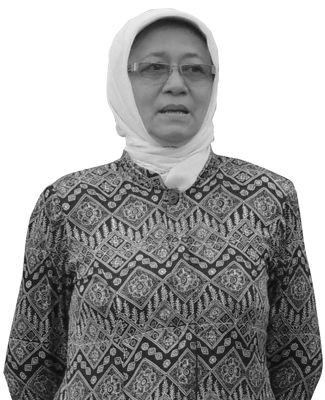
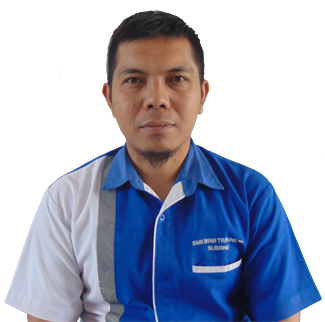
changes on main page

diff --git a/src/components/pages/main/index.js b/src/components/pages/main/index.js
@@ -1,7 +1,7 @@
 import React, { useEffect } from 'react'
 import clsx from 'clsx'
-import { Grid, Typography, Container, Divider, Card, CardContent, Box } from '@material-ui/core'
-import { makeStyles } from '@material-ui/core/styles'
+import { Grid, Typography, Container, Divider, Card, CardContent, Box, useMediaQuery } from '@material-ui/core'
+import { useTheme, makeStyles } from '@material-ui/core/styles'
 import HeadMaster from '../../../assets/images/kepalasekolah.png'
 import aboutBackground from '../../../assets/images/tefa.jpg'
 import { CustomButton } from '../../styling';
@@ -10,84 +10,105 @@ import { Link } from 'react-router-dom';
 import WOW from 'wowjs';
 
 import backgroundHeader from '../../../assets/images/backgroundHeader.jpg'
+import hex2Rgba from '../../nano/hex2rgba'
+import { useGlobal } from 'reactn'
 
-const useStyles = makeStyles((theme) => ({
-	title: {
-		margin: theme.spacing(15, 'auto')
-	},
-	aboutBG:{
-		backgroundImage:`url(${aboutBackground})`,
-		backgroundRepeat:'no-repeat',
-		backgroundAttachment:'fixed',
-		backgroundPosition:'center',
-		backgroundSize:'cover',
-		minHeight:'500px',
-		height:'100vh',
-		maxHeight:'700px',
-		alignItems:'center'
-	},
-	titleText:{
-		flexGrow: 1,
-		fontFamily: 'Inter',
-		fontWeight: 'Bold'
-	},
-	mainHeader:{
-		background:`linear-gradient(180deg, transparent 0%, ${theme.palette.background.default} 75%, ${theme.palette.background.default} 100%)`
-	},
-	boxContent:{
-		margin: theme.spacing(15, 0, 15, 0)
-	},
-	
-	boxAffiliation:{
-		padding: theme.spacing(15, 0, 15, 0),
-		backgroundColor:'white',
-		color:'black',
-		boxShadow: '0px 0px 35px 1px rgba(122,122,122,0.46)'
-	},
-	boxMaps:{
-		padding: theme.spacing(15, 0, 15, 0),
-	},
-	boxIntroImg:{
-		backgroundImage:`url(${HeadMaster})`,
-		backgroundPosition:'top right',
-		backgroundSize:'cover',
-		backgroundRepeat:'no-repeat',
-		height:'100%',
-		opacity:.9
-	},
-	boxIntroDialog:{
-		padding:theme.spacing(5)
-	},
-	fullWidthContainer: {
-		maxWidth: '100vw',
-	},
-	backgroundTheme: {
-		backgroundColor:theme.palette.background.default
-	},
-	aboutReadMore: {
-		marginTop: theme.spacing(4)
-	},
-	mt4:{
-		marginTop:theme.spacing(4)
-	},
-	VisbyBold:{
-		fontFamily:'VisbyBold'
-	}
-}));
+const useStyles = makeStyles((theme) => {
+	var bg = theme.palette.background.default
+
+	return ({
+		title: {
+			margin: theme.spacing(15, 'auto')
+		},
+		aboutBG:{
+			backgroundImage:`linear-gradient(${hex2Rgba(bg,.7)} 0%, ${hex2Rgba(bg,.7)} 100%),url(${aboutBackground})`,
+			backgroundRepeat:'no-repeat',
+			backgroundAttachment:'fixed',
+			backgroundPosition:'center',
+			backgroundSize:'cover',
+			minHeight:'500px',
+			height:'100vh',
+			maxHeight:'700px',
+			alignItems:'center'
+		},
+		titleText:{
+			flexGrow: 1,
+			fontFamily: 'Inter',
+			fontWeight: 'Bold'
+		},
+		mainHeader:{
+			background:`linear-gradient(180deg, transparent 0%, ${theme.palette.background.default} 75%, ${theme.palette.background.default} 100%)`
+		},
+		boxContent:{
+			margin: theme.spacing(15, 0, 15, 0)
+		},
+		
+		boxAffiliation:{
+			padding: theme.spacing(15, 0, 15, 0),
+			backgroundColor:'white',
+			color:'black',
+			boxShadow: '0px 0px 35px 1px rgba(122,122,122,0.46)'
+		},
+		boxMaps:{
+			padding: theme.spacing(15, 0, 15, 0),
+		},
+		boxIntro:{
+			backgroundPosition:'bottom left',
+			backgroundSize:'contain',
+			backgroundRepeat:'no-repeat',
+			height:'100%',
+			opacity:.9
+		},
+		boxIntroImg:{
+			backgroundImage:`url(${HeadMaster})`,
+		},
+		boxIntroNoImg:{
+			backgroundImage:'none'
+		},
+		boxIntroDialog:{
+			padding:theme.spacing(5)
+		},
+		fullWidthContainer: {
+			maxWidth: '100vw',
+		},
+		backgroundTheme: {
+			backgroundColor:theme.palette.background.default
+		},
+		aboutReadMore: {
+			fontFamily:'Inter',
+			marginTop: theme.spacing(4)
+		},
+		mt4:{
+			marginTop:theme.spacing(4)
+		},
+		VisbyBold:{
+			fontFamily:'VisbyBold'
+		}
+	})
+});
 
 const Main = () => {
 
+	const hideAboutBoxImg = useMediaQuery('(min-width:960px)');
+	const theme = useTheme();
+	const [darkMode, setDarkMode] = useGlobal('darkMode')
+
 	useEffect(() => {
-		document.title = 'Beranda';
 		const mainContentDOM = document.querySelector('#body');
+		console.log('triggered')
 		
 		if (mainContentDOM !== null) {
 			let { style } = mainContentDOM;
-			style.backgroundImage = `url(${backgroundHeader})`
-			style.backgroundPosition = 'center center'
+			style.backgroundImage = `linear-gradient(180deg, ${theme.palette.background.default} 0%, rgba(209,209,209,0) 100%),url(${backgroundHeader})`
+			style.backgroundPosition = 'top center'
+			style.backgroundAttachment = 'fixed'
 			style.backgroundRepeat = 'no-repeat'
 			style.backgroundSize = 'cover'
 		}
+	}, [darkMode])
+
+	useEffect(() => {
+		document.title = 'Beranda';
 
 		return new WOW.WOW({
 			animateClass:'animate__animated',
@@ -100,26 +121,26 @@ const Main = () => {
 
 	const Intro = () => {
 		return(
-			<Grid container className="wow animate__fadeIn" data-wow-offset="350">
-				<Grid item xs={12} md={4} lg={4}>
-					<Box display={{ xs: 'none', sm: 'none', md: 'block' }} className={classes.boxIntroImg}>
+			<Grid container className={clsx("wow animate__fadeIn",classes.boxIntro, (hideAboutBoxImg ? classes.boxIntroImg : ''))} data-wow-offset="550">
+				<Grid item xs={12} md={5} lg={4}>
+					<Box display={{ xs: 'none', sm: 'none', md: 'block' }}>
 						
 					</Box>
 				</Grid>
-				<Grid item xs={12}  md={8} lg={8} className={classes.boxIntroDialog}>
+				<Grid item xs={12}  md={7} lg={8} className={classes.boxIntroDialog}>
 					<Typography align="center" variant="h4" className={classes.VisbyBold}>
 						Sambutan Kepala Sekolah
 					</Typography>
 					<Divider style={{marginBottom:30,marginTop:10}}/>
-					<Typography align="center" style={{fontFamily:'InterNormal'}}>
+					<Typography align="center" style={{fontFamily:'Visby'}}>
 						Assalamualaikum Wr.Wb<br/>
-						Selamat datang di Website kami Sekolah Menengah Kejuruan Negeri 13 Bandung. Media ini saya tujukan untuk seluruh unsur pimpinan, guru, karyawan dan siswa serta masyarakat guna dapat mengakses seluruh informasi tentang segala profil, kegiatan serta fasilitas sekolah kami.Saya selaku pimpinan mengucapkan terima kasih kepada Tim Manajemen dan Tim IT yang telah berusaha untuk dapat lebih memperkenalkan segala perihal yang dimiliki oleh sekolah. Saya berharap Website ini dapat dijadikan sarana interaksi yang positif baik antar warga sekolah maupun masyarakat pada umumnya sehingga informasi dapat tersampaikan dengan baik. Semoga Allah SWT memberikan kekuatan bagi kita semua untuk mencerdaskan anak-anak bangsa.Wassalamualikum Wr.Wb<br/><br/>
+						Selamat datang di Sekolah Menengah Kejuruan(SMK) Bina Taruna Jalancagak. Media ini saya tujukan untuk seluruh unsur pimpinan, guru, karyawan dan siswa serta masyarakat guna dapat mengakses seluruh informasi tentang segala profil, kegiatan serta fasilitas sekolah kami.<br/>Saya selaku pimpinan mengucapkan terima kasih kepada Tim Manajemen dan Tim IT yang telah berusaha untuk dapat lebih memperkenalkan segala perihal yang dimiliki oleh sekolah.<br/>Saya berharap situs ini dapat dijadikan sarana interaksi yang positif baik antar warga sekolah maupun masyarakat pada umumnya sehingga informasi dapat tersampaikan dengan baik.<br/>Semoga Allah SWT memberikan kekuatan bagi kita semua untuk mencerdaskan anak-anak bangsa.<br/>Wassalamualikum Wr.Wb<br/><br/>
 					</Typography>
 					<Typography align="center" variant="subtitle1" style={{fontWeight:'bold'}}>
 						Kepala Sekolah
 					</Typography>
 					<Typography align="center" variant="subtitle1">
-						Dra. Hj. Neneng Tresnawangsih, MM.
+						Dedi Rohimat, ST.
 					</Typography>
 				</Grid>
 			</Grid>
@@ -130,7 +151,7 @@ const Main = () => {
 		return(
 			<Grid container className="wow animate__fadeInUp" data-wow-offset="250">
 				<Grid item xs={12}>
-					<Container maxWidth="lg" style={{color:'white'}}>
+					<Container maxWidth="lg">
 						<Typography variant="h4" align="center" style={{marginBottom:10}}>
 							Tentang Sekolah
 						</Typography>

diff --git a/src/components/nano/mainNavbar.js b/src/components/nano/mainNavbar.js
@@ -15,6 +15,9 @@ const useStyles = makeStyles((theme) => ({
         boxShadow:'none',
         transition: 'all .3s ease-in-out!important'
     },
+    subNavbar:{
+        borderBottom:'3px solid #5587fe'
+    },
 	title: {
 	  	flexGrow: 1,
     },
@@ -159,7 +162,7 @@ const MainNavbar = (props) => {
             {MenuDrawer("top")}
         </Drawer>
         <Box display={{ xs: 'none', sm: 'none', md: 'block' }} >
-            <AppBar position="static" className={classes.roox} color="primary" id="subNavbar">
+            <AppBar position="static" className={classes.subNavbar} color="primary" id="subNavbar">
                 <Toolbar variant="dense">
                     <Link className={classes.topNavLink} color="inherit" href="http://sas.smkbintarjalancagak.sch.id/">
                         SAS

diff --git a/src/index.scss b/src/index.scss
@@ -179,6 +179,13 @@ $menu-items-loop-offset: $menu-items - 1; // the number of items in the menu
 
 	.Nav-item {
 
+		a {
+			display: block;
+			text-decoration: none;
+			padding-top:0;
+			padding-bottom:20px;
+		}
+
 		padding-top: 20px!important;
 
 		&:last-child {
@@ -187,14 +194,14 @@ $menu-items-loop-offset: $menu-items - 1; // the number of items in the menu
 				border-top-color: $indicator-color;
 				width: 0;
 				height: 0;
-				top: 5px;
+				top: 3px;
 				left: ($width/2);
 				margin-left: -3px;
 			}
 			&:after {
 				background: $indicator-color;
 				top:0;
-				height:5px;
+				height:3px;
 				width: $width;
 				z-index: -1;
 			}

diff --git a/src/components/nano/hex2rgba.js b/src/components/nano/hex2rgba.js
@@ -1,0 +1,15 @@
+const hexToRgba = (hex,alpha) => {
+    var c,rgb;
+    if(/^#([A-Fa-f0-9]{3}){1,2}$/.test(hex)){
+        c= hex.substring(1).split('');
+        if(c.length== 3){
+            c= [c[0], c[0], c[1], c[1], c[2], c[2]];
+        }
+        c= '0x'+c.join('');
+        rgb = [(c>>16)&255, (c>>8)&255, c&255].join(',');
+        return `rgba(${rgb},${alpha})`;
+    }
+    throw new Error('Bad Hex');
+}
+
+export default hexToRgba
